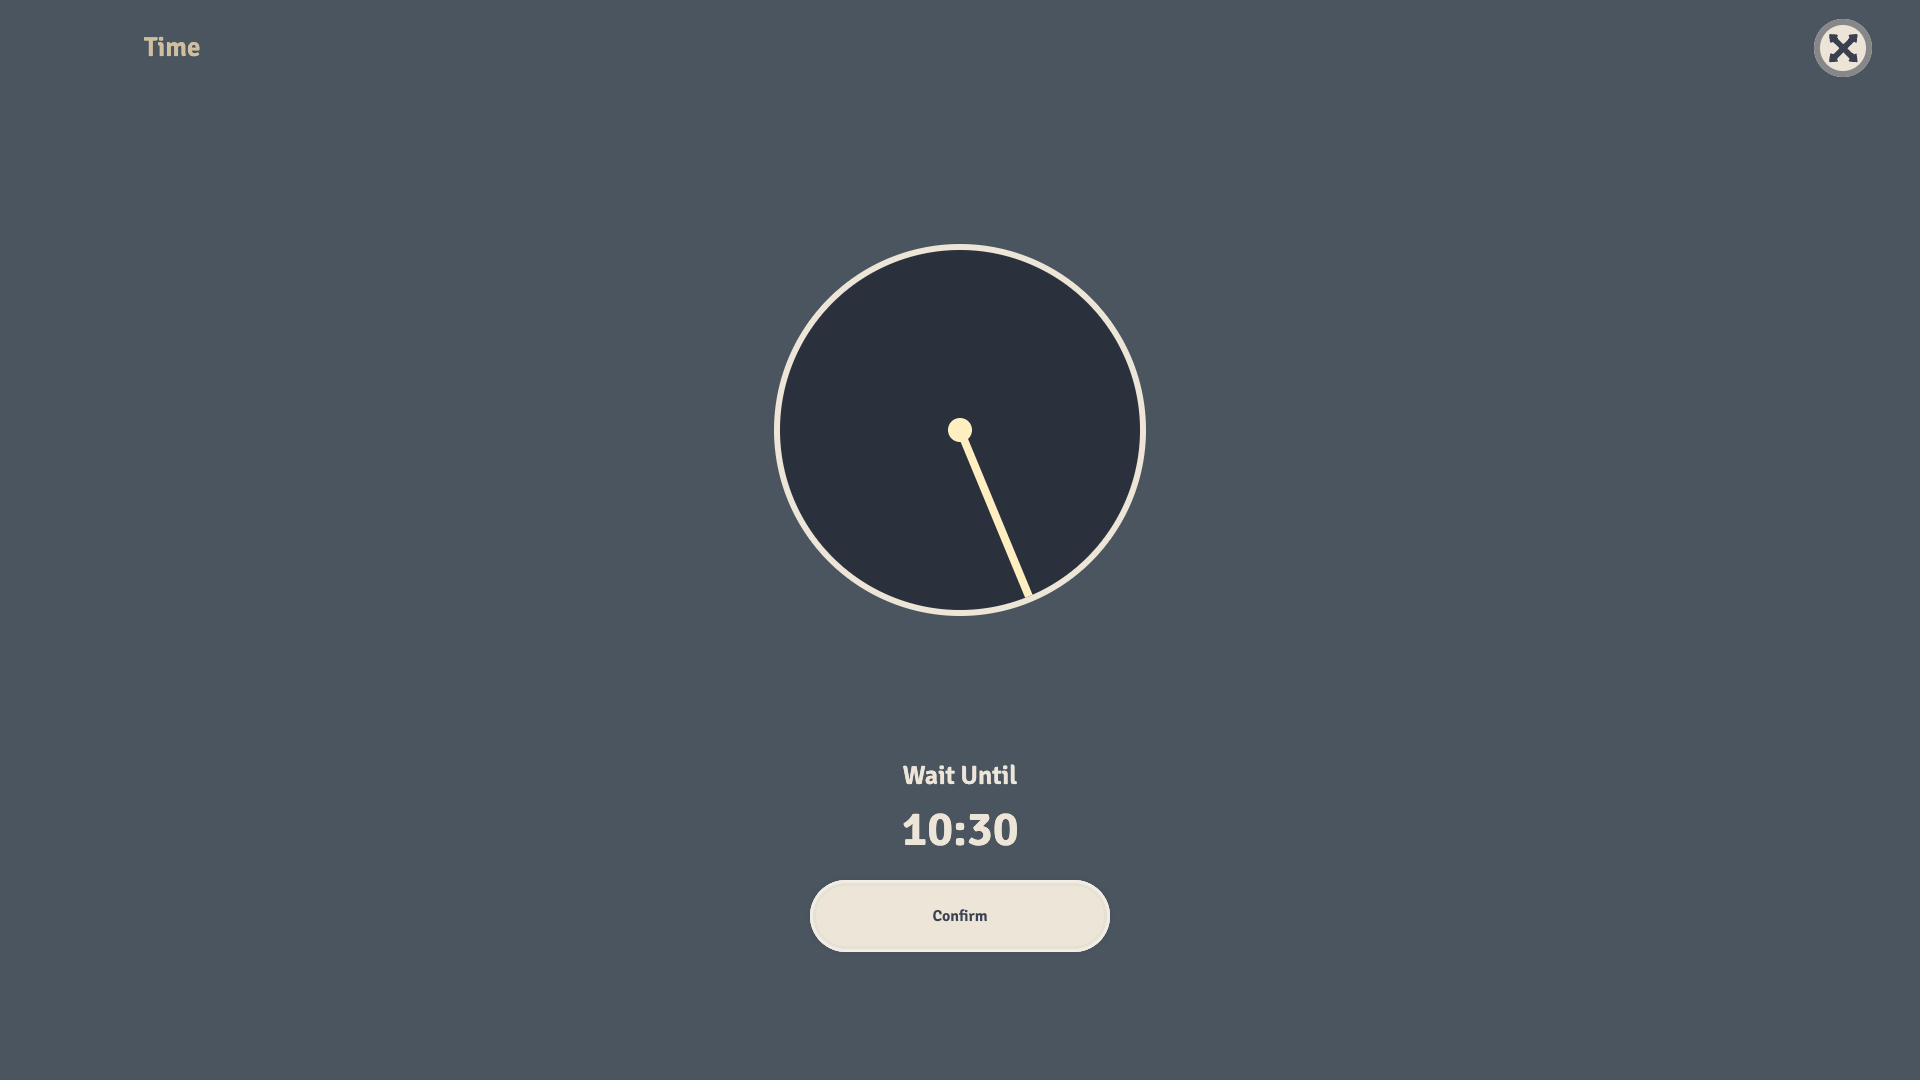
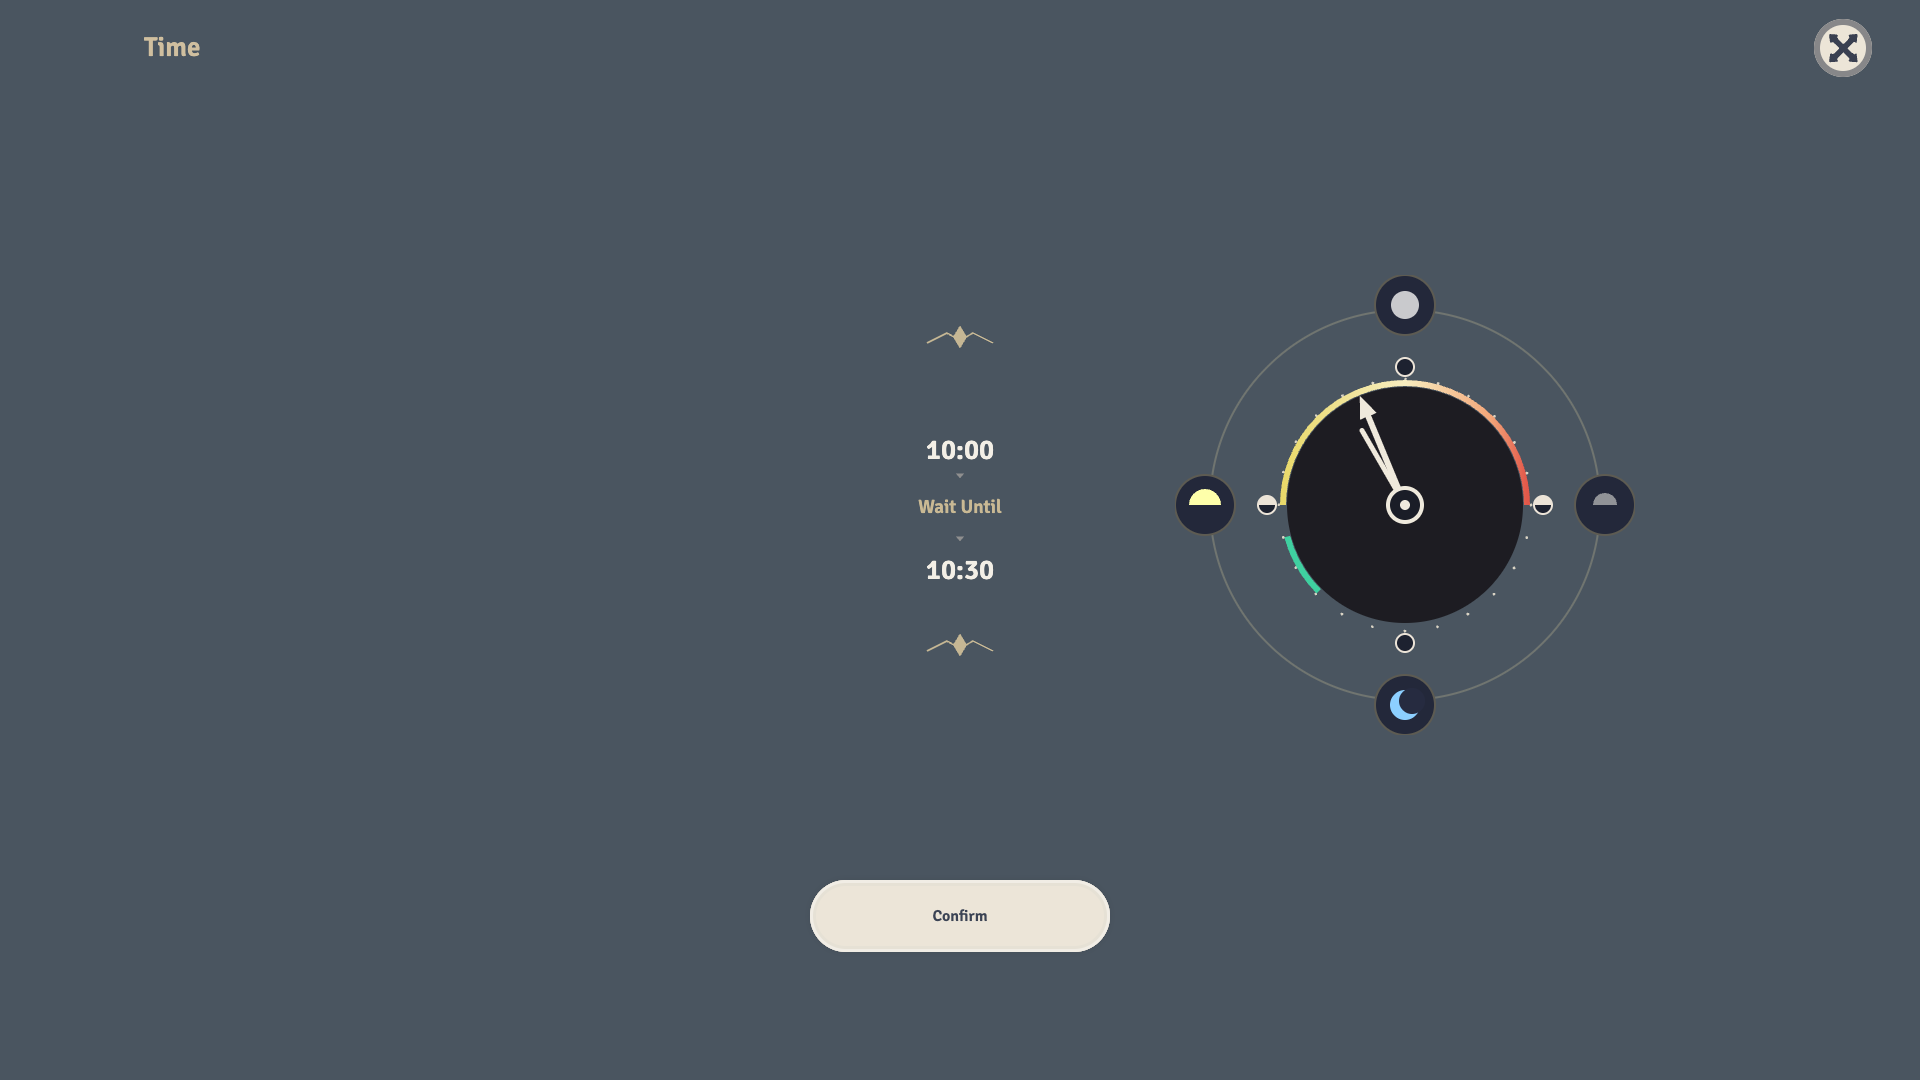
refactor(genshin-world): MenuTime is audited against its reference by eye
The dial moves to the reference's place, 445 units right of the middle and 505 down on the 1080 frame, and is drawn
as the game draws it: the ring of badges (the sun at the top, the moon at the bottom, the dawn and dusk suns at the
sides), the dotted hour ticks, the gradient arc from yellow to red with its green piece, the dark centre and the two
hands. The day runs noon at the top and midnight at the bottom, as the game's dial does, so the long hand is the
target and the short one the current time. The time column is drawn beside it: the current time, Wait Until, the
target hour and the two carets, with the ornament above and below.

Not drawn: "Current Time" and "Today" have no GameTextKey, so the reference's words for them are left undrawn. The
reference frame shows no title, close mark or Confirm, so the shared ScreenHeader and GameButton keep theirs, which
their own compare rows carry.

menu-time, mean difference / shape / FLIP (tone):
  before 1.54% / 0.825 / 0.0376 (1.22%)
  after  1.34% / 0.927 / 0.0323 (1.12%)

Claude-Session: https://claude.ai/code/session_0145sUFikQjWbKjS2GJtLRvd

Changed region(s): [[0.4062, 0.2139, 0.875, 0.7028], [0.4688, 0.7028, 0.5312, 0.7944], [0.7188, 0.2444, 0.75, 0.3056]]

diff --git a/packages/genshin-world/src/components/Menu/Time/Index.vue b/packages/genshin-world/src/components/Menu/Time/Index.vue
@@ -24,14 +24,18 @@ const confirmButton = useTemplateRef("confirmButton");
 const advance = ref(0);
 let pointerAngle: number | undefined;
 const targetMinutes = computed(() => getTimeTargetMinutes(clockMinutes, advance.value));
-// The hand stands at the top of the dial at midnight and turns clockwise through the day to the target's minute
-const handStyle = computed(() => ({ transform: `rotate(${(targetMinutes.value / MINUTES_PER_DAY) * 360}deg)` }));
-const targetTime = computed(() => {
-  const minutes = Math.floor(targetMinutes.value);
-  return Temporal.PlainTime.from({ hour: Math.floor(minutes / 60), minute: minutes % 60 }).toString({
+// The dial turns the day as the game draws it: noon at the top, midnight at the bottom, clockwise through the day
+const toDialAngle = (minutes: number): number => ((minutes / MINUTES_PER_DAY) * 360 + 180) % 360;
+const currentAngle = computed(() => toDialAngle(clockMinutes));
+const targetAngle = computed(() => toDialAngle(targetMinutes.value));
+const formatMinutes = (minutes: number): string => {
+  const wholeMinutes = Math.floor(minutes);
+  return Temporal.PlainTime.from({ hour: Math.floor(wholeMinutes / 60), minute: wholeMinutes % 60 }).toString({
     smallestUnit: "minute",
   });
-});
+};
+const clockTime = computed(() => formatMinutes(clockMinutes));
+const targetTime = computed(() => formatMinutes(targetMinutes.value));
 // The pointer's angle about the dial's centre, which a drag steps the advance by as it turns round the dial
 const getPointerAngle = (event: PointerEvent, element: HTMLElement): number => {
   const { height, left, top, width } = element.getBoundingClientRect();
@@ -58,9 +62,10 @@ onMounted(() => {
 </script>
 
 <template>
-  <!-- The Time screen the Paimon menu's side bar opens: its title and the cross that closes it, a dial the pointer turns
-       to dial the advance, the hour the dial points at and Confirm, which sets the world's clock to that hour. Each
-       Place is provisional until the English PC client's own screen is fitted to the reference -->
+  <!-- The Time screen the Paimon menu's side bar opens: its title and the cross that closes it, the clock's dial on the
+       right of the screen and, in the middle, the clock's time and the hour the dial points at, then Confirm, which sets
+       the world's clock to that hour. The dial and the column are placed from the English PC client's screen (1080 high,
+       a reference pixel a unit). "Current Time" and "Today" have no game text key yet, so they are not drawn -->
   <GameScreen class="menu-time" role="dialog" aria-modal="true" :aria-label="gameText[GameTextKey.Time]">
     <ScreenHeader
       :game-text
@@ -76,11 +81,59 @@ onMounted(() => {
       @pointerup="onDialPointerUp()"
       @pointercancel="onDialPointerUp()"
     >
-      <span class="hand" :style="handStyle" />
-      <span class="hub" />
+      <svg class="face" viewBox="-230 -230 460 460" aria-hidden="true">
+        <defs>
+          <linearGradient id="menu-time-arc" x1="-122" x2="122" gradientUnits="userSpaceOnUse">
+            <stop offset="0" stop-color="#e9d96a" />
+            <stop offset="0.5" stop-color="#f7edc0" />
+            <stop offset="0.85" stop-color="#f4a77a" />
+            <stop offset="1" stop-color="#e2584a" />
+          </linearGradient>
+        </defs>
+        <circle class="frame" r="195" />
+        <circle class="centre" r="118" />
+        <circle class="ticks" r="126" />
+        <path class="arc" d="M -122 0 A 122 122 0 0 1 122 0" stroke="url(#menu-time-arc)" />
+        <path class="arc" d="M -86.3 86.3 A 122 122 0 0 1 -117.8 31.6" stroke="#3fd0a0" />
+        <circle class="badge" cx="0" cy="-200" r="30" />
+        <circle cx="0" cy="-200" r="14" fill="#c9cacd" />
+        <circle class="badge" cx="0" cy="200" r="30" />
+        <circle cx="0" cy="200" r="15" fill="#8ccfff" />
+        <circle cx="7" cy="196" r="13" fill="#262b40" />
+        <circle class="badge" cx="-200" cy="0" r="30" />
+        <path d="M -216 0 A 16 16 0 0 1 -184 0 Z" fill="#feffaa" />
+        <circle class="badge" cx="200" cy="0" r="30" />
+        <path d="M 188 0 A 12 12 0 0 1 212 0 Z" fill="#919397" />
+        <circle class="marker" cx="0" cy="-138" r="9" fill="#ebe3d7" />
+        <circle class="marker" cx="0" cy="138" r="9" fill="none" stroke-width="2" />
+        <circle class="marker" cx="-138" cy="0" r="9" />
+        <path d="M -147 0 A 9 9 0 0 1 -129 0 Z" fill="#ebe3d7" />
+        <circle class="marker" cx="138" cy="0" r="9" />
+        <path d="M 129 0 A 9 9 0 0 1 147 0 Z" fill="#ebe3d7" />
+        <g :transform="`rotate(${currentAngle})`">
+          <path class="hand current" d="M 0 10 V -86" />
+        </g>
+        <g :transform="`rotate(${targetAngle})`">
+          <path class="hand" d="M 0 10 V -98" />
+          <polygon points="-9,-96 0,-118 9,-96" fill="#efe9dc" />
+        </g>
+        <circle class="hub" r="17" />
+        <circle r="5" fill="#efe9dc" />
+      </svg>
     </div>
+    <svg class="ornament top" viewBox="0 0 70 24" aria-hidden="true">
+      <path d="M 2 18 L 22 8 L 29 12 M 68 18 L 48 8 L 41 12" fill="none" />
+      <path d="M 35 2 L 41 12 L 35 22 L 29 12 Z" fill="#c6b794" />
+    </svg>
+    <p class="clock-time">{{ clockTime }}</p>
+    <span class="caret first" />
     <p class="wait-until">{{ gameText[GameTextKey.TimeWaitUntil] }}</p>
+    <span class="caret second" />
     <p class="hour">{{ targetTime }}</p>
+    <svg class="ornament bottom" viewBox="0 0 70 24" aria-hidden="true">
+      <path d="M 2 18 L 22 8 L 29 12 M 68 18 L 48 8 L 41 12" fill="none" />
+      <path d="M 35 2 L 41 12 L 35 22 L 29 12 Z" fill="#c6b794" />
+    </svg>
     <GameButton
       ref="confirmButton"
       class="confirm"
@@ -94,66 +147,145 @@ onMounted(() => {
 </template>
 
 <style scoped>
-/* Provisional: the dial, its hand and the labels are placed in the reference's own pixels, one of its pixels a unit,
-   Once the English PC client's Time screen has been fitted to it */
 .menu-time {
   --reference-pixel: var(--unit);
   color: #ece5d8;
 }
 
+/* The dial's centre at 445 reference pixels right of the screen's middle, 505 down, its ring and badges within 460 */
 .dial {
   position: absolute;
-  top: calc(var(--reference-pixel) * 430);
-  left: 50%;
-  width: calc(var(--reference-pixel) * 360);
-  height: calc(var(--reference-pixel) * 360);
-  border: calc(var(--reference-pixel) * 6) solid #ece5d8;
-  border-radius: 50%;
-  background: rgb(20 24 36 / 0.6);
+  top: calc(var(--reference-pixel) * 505);
+  left: calc(50% + var(--reference-pixel) * 445);
+  width: calc(var(--reference-pixel) * 460);
+  height: calc(var(--reference-pixel) * 460);
   cursor: grab;
   touch-action: none;
   translate: -50% -50%;
 }
 
+.face {
+  display: block;
+  width: 100%;
+  height: 100%;
+}
+
+.frame {
+  fill: none;
+  stroke: rgb(200 190 150 / 0.3);
+  stroke-width: 2;
+}
+
+.centre {
+  fill: #120e12;
+  fill-opacity: 0.8;
+}
+
+.ticks {
+  fill: none;
+  stroke: #d9d3c4;
+  stroke-dasharray: 0 33;
+  stroke-linecap: round;
+  stroke-width: 3;
+}
+
+.arc {
+  fill: none;
+  stroke-width: 6;
+}
+
+.badge {
+  fill: #23283a;
+  stroke: #5d5b52;
+  stroke-width: 2;
+}
+
+.marker {
+  fill: #1d2230;
+  stroke: #ebe3d7;
+  stroke-width: 2;
+}
+
 .hand {
-  position: absolute;
-  top: 0;
-  left: 50%;
-  width: calc(var(--reference-pixel) * 8);
-  height: 50%;
-  background: #ffefc0;
-  transform-origin: 50% 100%;
-  translate: -50% 0;
+  fill: none;
+  stroke: #efe9dc;
+  stroke-linecap: round;
+  stroke-width: 6;
+}
+
+.hand.current {
+  stroke-width: 5;
 }
 
 .hub {
+  fill: #1a1d27;
+  stroke: #efe9dc;
+  stroke-width: 4;
+}
+
+.ornament {
   position: absolute;
-  top: 50%;
   left: 50%;
-  width: calc(var(--reference-pixel) * 24);
+  width: calc(var(--reference-pixel) * 70);
   height: calc(var(--reference-pixel) * 24);
-  border-radius: 50%;
-  background: #ffefc0;
+  stroke: #c6b794;
+  stroke-width: 1.6;
   translate: -50% -50%;
 }
 
-.wait-until {
+.ornament.top {
+  top: calc(var(--reference-pixel) * 337);
+}
+
+.ornament.bottom {
+  top: calc(var(--reference-pixel) * 645);
+}
+
+.clock-time,
+.wait-until,
+.hour {
   position: absolute;
-  top: calc(var(--reference-pixel) * 760);
   left: 50%;
   margin: 0;
-  font-size: calc(var(--reference-pixel) * 26);
-  translate: -50% 0;
+  font-weight: 600;
+  white-space: nowrap;
+  translate: -50% -50%;
+}
+
+.clock-time {
+  top: calc(var(--reference-pixel) * 450);
+  color: #f3efe6;
+  font-size: calc(var(--reference-pixel) * 28);
+}
+
+.wait-until {
+  top: calc(var(--reference-pixel) * 507);
+  color: #c9b994;
+  font-size: calc(var(--reference-pixel) * 19);
 }
 
 .hour {
+  top: calc(var(--reference-pixel) * 570);
+  color: #f3efe6;
+  font-size: calc(var(--reference-pixel) * 28);
+}
+
+.caret {
   position: absolute;
-  top: calc(var(--reference-pixel) * 800);
   left: 50%;
-  margin: 0;
-  font-size: calc(var(--reference-pixel) * 48);
-  font-weight: 600;
-  translate: -50% 0;
+  width: 0;
+  height: 0;
+  border-top: calc(var(--reference-pixel) * 5) solid #8f8f8f;
+  border-inline: calc(var(--reference-pixel) * 4) solid transparent;
+  translate: -50% -50%;
+}
+
+.caret.first {
+  top: calc(var(--reference-pixel) * 476);
+}
+
+.caret.second {
+  top: calc(var(--reference-pixel) * 539);
 }
 
 .confirm {

diff --git a/scripts/src/services/genshinParity/shared/ParityReferenceMap.snapshot.md b/scripts/src/services/genshinParity/shared/ParityReferenceMap.snapshot.md
@@ -74,7 +74,7 @@ committed.
 | `menu-paimon-disabled`                 | `MenuPaimon`                |                                     pending: no screenshot of this variant yet |       |        |        |
 | `menu-paimon-hover`                    | `MenuPaimon`                |                                     pending: no screenshot of this variant yet |       |        |        |
 | `menu-paimon-pressed`                  | `MenuPaimon`                |                                     pending: no screenshot of this variant yet |       |        |        |
-| `menu-time`                            | `MenuTime`                  |                                                                          1.54% | 0.825 |  1.22% | 0.0376 |
+| `menu-time`                            | `MenuTime`                  |                                                                          1.34% | 0.927 |  1.12% | 0.0323 |
 | `menu-world-level-prompt`              | `MenuWorldLevelPrompt`      |                                       pending: no screenshot of the screen yet |       |        |        |
 | `menu-world-level-prompt-hover`        | `MenuWorldLevelPrompt`      |                                     pending: no screenshot of this variant yet |       |        |        |
 | `menu-world-level-prompt-pressed`      | `MenuWorldLevelPrompt`      |                                     pending: no screenshot of this variant yet |       |        |        |
